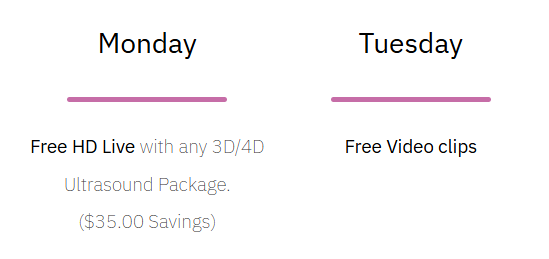
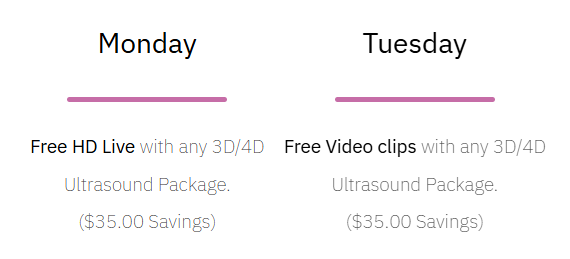
specials fix

diff --git a/packages.html b/packages.html
@@ -389,7 +389,8 @@
 								<div class="testimonial">
 									<div class="name"><b>Tuesday</b></div>
 									<div class="borderTest"></div>
-									<p><b>Free Video clips</b></br></br></p>
+									<p><b>Free Video clips</b> with any 3D/4D Ultrasound Package. </br>($35.00 Savings)
+									</p>
 								</div>
 							</div>
 							<!-- <div class="colTest">
